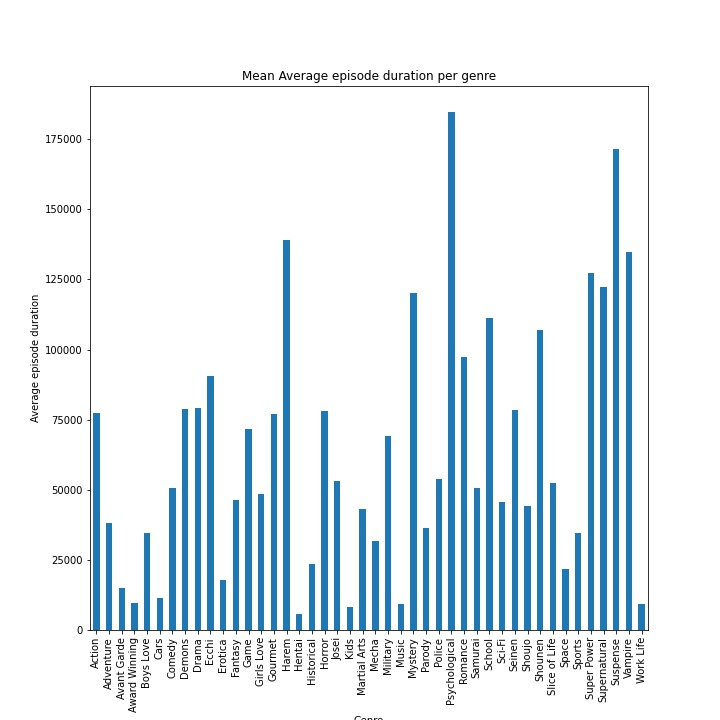
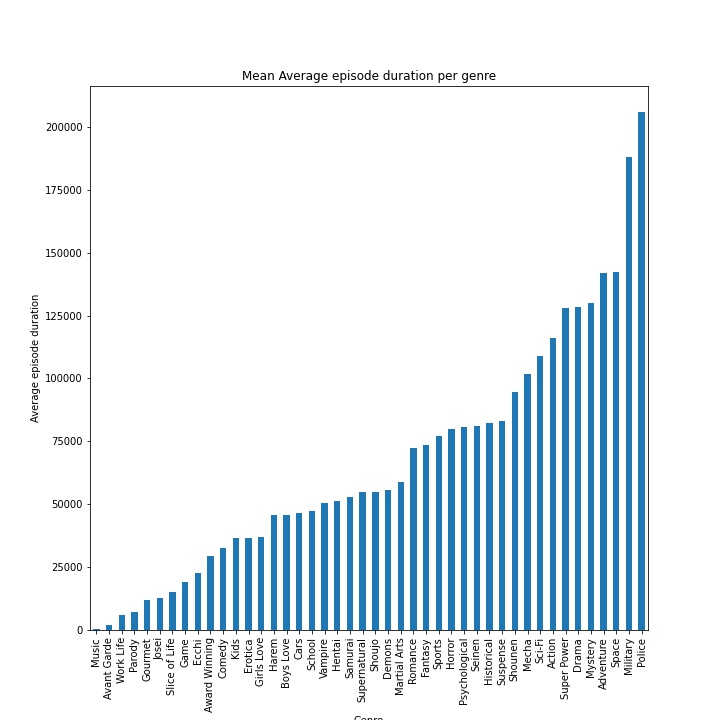
Plot lables changed

diff --git a/genre_trend.py b/genre_trend.py
@@ -74,7 +74,10 @@ df1 = df1.pivot(index='start_date', columns='genre_name', values='anime_count')
 #            'School', 'Sci-Fi', 'Seinen', 'Shoujo', 'Shounen', 'Slice of Life',
 #            'Space', 'Sports', 'Super Power', 'Supernatural']]
 
-df1 = df1[['Action', 'Adventure', 'Comedy', 'Drama', 'Fantasy',
+# df1 = df1[['Action', 'Adventure', 'Comedy', 'Drama', 'Fantasy',
+#             'Hentai', 'Historical', 'Kids', 'Music', 'Romance',
+#            'School', 'Sci-Fi', 'Shounen', 'Slice of Life', 'Supernatural']]
+df1 = df1[['Action', 'Adventure', 'Drama',
             'Hentai', 'Historical', 'Kids', 'Music', 'Romance',
            'School', 'Sci-Fi', 'Shounen', 'Slice of Life', 'Supernatural']]
 
@@ -90,7 +93,7 @@ savePlot(plot, 'genre_num_anime_vs_year')
 
 # %%
 
-df2 = df.groupby(['genre_name'])['popularity'].mean()
+df2 = df.groupby(['genre_name'])['popularity'].mean().sort_values()
 # df2 = df2[['Action', 'Adventure', 'Comedy', 'Drama', 'Fantasy',
 #             'Hentai', 'Historical', 'Kids', 'Music', 'Romance',
 #            'School', 'Sci-Fi', 'Shounen', 'Slice of Life', 'Supernatural']]
@@ -101,7 +104,7 @@ savePlot(df2.plot(kind='bar', title='Mean popularity per genre', figsize=(10,10)
 
 
 def generateHistogram(field, yname):
-    df2 = df.groupby(['genre_name'])[field].mean()
+    df2 = df.groupby(['genre_name'])[field].mean().sort_values()
     savePlot(df2.plot(kind='bar', title='Mean ' +
              yname + ' per genre', xlabel='Genre', ylabel=yname, figsize=(10,10)), 'genre_vs_' + field)
 
@@ -114,10 +117,20 @@ df3 = df3[['Action', 'Adventure', 'Comedy', 'Drama', 'Fantasy',
 savePlot(df3.plot(kind='bar', title='Number of anime by genre', figsize=(10,10), ylabel="Number of anime", xlabel="Genre"), 'genre_count')
 
 # %%
-plot_fields = [('mean', 'Mean'), 
-            ('rank', 'Rank'), 
-            ('num_list_users', 'Number of users'),
-            ('num_episodes', 'Number of episodes'), 
-            ('average_episode_duration', 'Average episode duration')]
-for field, ylabel1 in plot_fields:
-    generateHistogram(field, ylabel1)
+# plot_fields = [('mean', 'Mean'), 
+#             ('rank', 'Rank'), 
+#             ('num_list_users', 'Number of users'),
+#             ('num_episodes', 'Number of episodes'), 
+#             ('average_episode_duration', 'Average episode duration')]
+# for field, ylabel1 in plot_fields:
+#     generateHistogram(field, ylabel1)
+
+
+df_rank = df.groupby(['genre_name'])['rank'].mean()
+df_pop = df.groupby(['genre_name'])['popularity'].mean()
+df_pop.index
+frame={'rank': df_rank, 'popularity':df_pop, 'genre_name':df_pop.index}
+df4 = pd.DataFrame(frame)
+df4
+savePlot(df4.plot(kind='bar', x='genre_name', y=['rank', 'popularity'], figsize=(10,10), ylabel="Value of rank/popularity", xlabel="Genre"), 'genre_vs_rank_and_pop')
+# savePlot(df2.plot(kind='bar', title='Mean ' + yname + ' per genre', xlabel='Genre', ylabel=yname, figsize=(10,10)), 'genre_vs_' + field)

diff --git a/source_trends.py b/source_trends.py
@@ -18,17 +18,21 @@ df = pd.DataFrame.from_dict(data, orient='index')
 df = df[df['error'] != 'not_found']
 df.dropna(subset=['source'], inplace=True)
 df['start_date']= pd.to_datetime(df['start_date'])
-
+df = df[df['start_date'].dt.year < 2022]
 
 # %%
 df1 = df.groupby(['start_date', 'source'], as_index=False)['id'].count()
 df1.rename({'id': 'anime_count'}, axis=1, inplace=True)
 df1 = df1.pivot(index='start_date', columns='source', values='anime_count')
+df1 = df1[['game',
+       'light_novel', 'manga', 'music', 'novel', 'original', 'other', 'visual_novel']]
+# df1.columns
+df1.sum(axis=0, skipna=True)
 
 
 # %%
 # Grouping by year to make the plot smoother
-plot = df1.groupby([(df1.index.year)]).sum().plot(title='Number of anime started by source by year')
+plot = df1.groupby([(df1.index.year)]).sum().plot(title='Number of anime started by source by year', ylabel="Number of anime", xlabel="Year")
 savePlot(plot, 'source_num_anime_vs_year')
 
 
@@ -49,11 +53,19 @@ savePlot(df3.plot(kind='bar', title = 'Num anime by source'), 'source_count')
 
 
 # %%
-plot_fields = ['mean', 'rank', 'num_list_users', 'num_episodes','average_episode_duration']
-for field in plot_fields:
-    generateHistogram(field)
+# plot_fields = ['mean', 'rank', 'num_list_users', 'num_episodes','average_episode_duration']
+# for field in plot_fields:
+#     generateHistogram(field)
 
 
 
 
+df
+df_rank = df.groupby(['source'])['rank'].mean()
+df_pop = df.groupby(['source'])['popularity'].mean()
+df_pop.index
+frame={'rank': df_rank, 'popularity':df_pop, 'source':df_pop.index}
+df4 = pd.DataFrame(frame)
+df4
+savePlot(df4.plot(kind='bar', x='source', y=['rank', 'popularity'], figsize=(10,10), ylabel="Value of rank/popularity", xlabel="Source Material"), 'source_vs_rank_and_pop')
 
